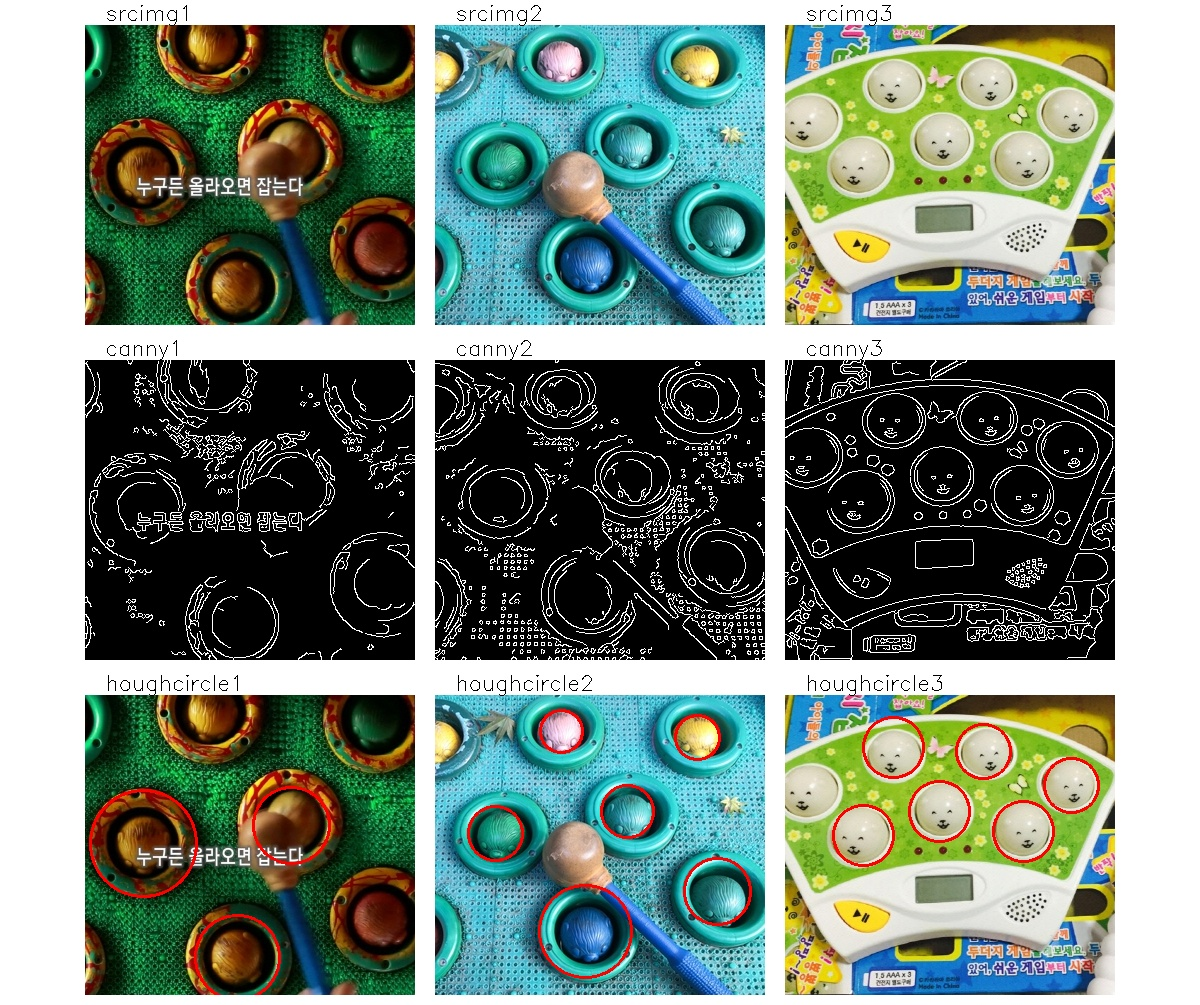
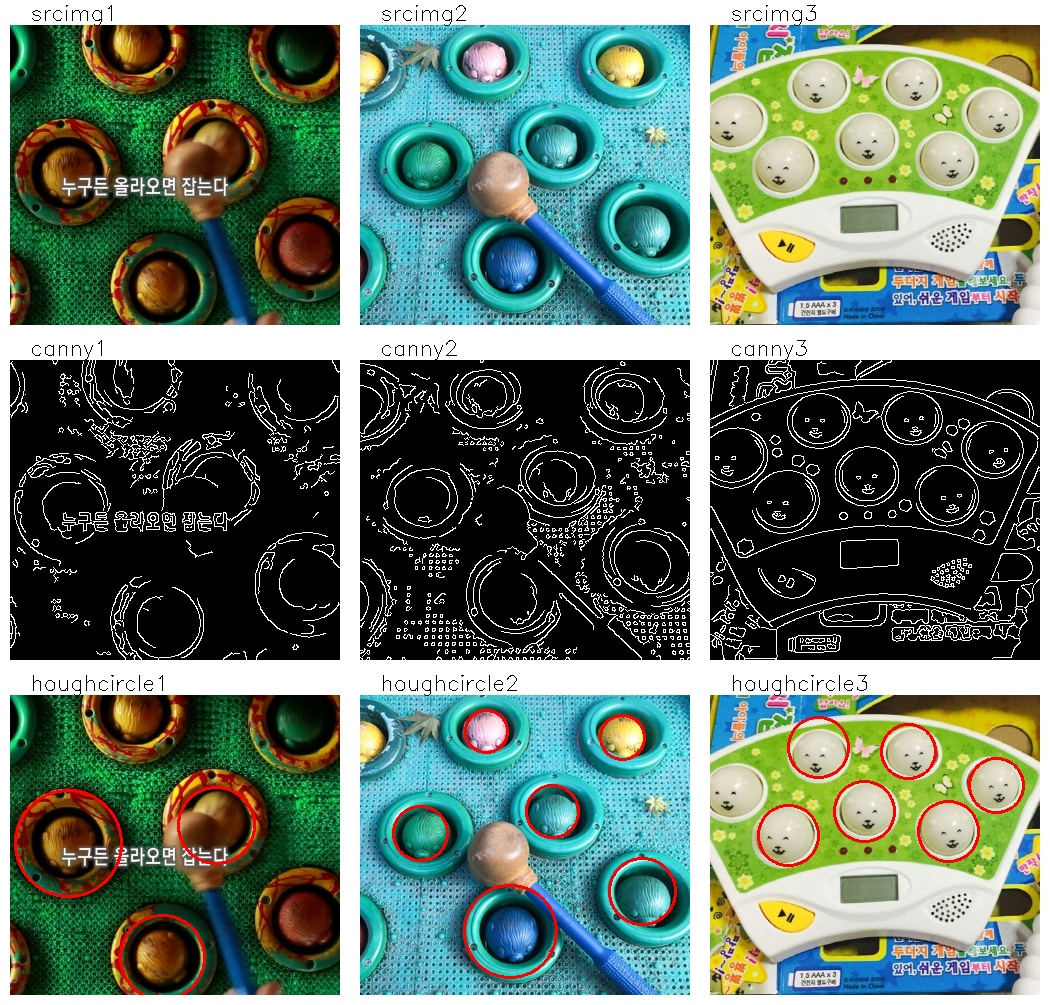
working on hough transform

diff --git a/scripts/opencv/opencv_14_hough.py b/scripts/opencv/opencv_14_hough.py
@@ -32,8 +32,8 @@ def hough_lines():
         if len(img.shape) == 2:
             images[key] = cv2.cvtColor(img, cv2.COLOR_GRAY2BGR)
 
-    result_img = si.show_imgs(images, "hough lines", 3, 1200)
-    cv2.imwrite(IMG_PATH + "/houghlines.jpg", result_img)
+    result_img = si.show_imgs(images, "hough lines", 3, 1000)
+    # cv2.imwrite(IMG_PATH + "/houghlines.jpg", result_img)
 
 
 def hough_circles():
@@ -70,10 +70,10 @@ def hough_circles():
     for key, img in images.items():
         if len(img.shape) == 2:
             images[key] = cv2.cvtColor(img, cv2.COLOR_GRAY2BGR)
-    result_img = si.show_imgs(images, "hough lines", 3, 1200)
+    result_img = si.show_imgs(images, "hough lines", 3, 1000)
     cv2.imwrite(IMG_PATH + "/houghcircles.jpg", result_img)
 
 
 if __name__ == "__main__":
-    # hough_lines()
+    hough_lines()
     hough_circles()

diff --git a/_posts/2019-05-26-segmentation.md b/_posts/2019-05-26-segmentation.md
@@ -9,33 +9,128 @@ categories: 2019-1-systprog
 
 # 1. Hough Transform
 
+허프 변환(Hough Transform)은 영상에서 직선이나 원과 같은 모양을 찾는 방법이다. 먼저 영상에서 캐니 엣지로 외곽선을 추출하고 엣지로 검출된 픽셀 좌표들을 허프 공간(Hough Space)으로 변환한다. 허프 공간은 찾고자 하는 도형의 파라미터 공간(Parameter Space)이며 이곳에서 밀도가 높은 곳의 파라미터를 찾으면 해당 도형을 픽셀 좌표계에서 찾을 수 있다. 가장 대표적인 직선 검출을 예로 들면 아래 왼쪽 그림처럼 영상에서 직선은 $(\rho, \theta)$ 두 개의 파라미터로 결정할 수 있다. 엣지로 검출된 선분 위의 한 픽셀을 지날수 있는 모든 직선의 파라미터를 허프 공간에 표시하면 오른쪽 그림과 같이 곡선이 그려진다. 선분 위의 모든 픽셀에 대해 가능한 직선들을 허프 공간으로 변환시켜 가장 허프 공간에서 밀도가 높아지는 곳, 즉 가장 여러 곡선이 겹치는 곳의 파라미터가 우리가 찾는 선분의 파라미터가 된다. 원을 찾을때도 마찬가지로 원을 $(x,y,r)$ 세 개의 파라미터로 특정할 수 있으므로 3차원 허프 공간을 만들고 엣지 위의 픽셀들을 허프 공간으로 변환하면 된다.
+
+![hough-transform1](/ian-lecture/assets/opencv-segment/hough-transform1.jpg)
+
+![hough-transform2](/ian-lecture/assets/opencv-segment/hough-transform2.png)
+
+
+
+## 1.1 Hough Line Transform
+
+OpenCV에서는 허프 직선 변환을 구현한 `cv2.HoughLines()`와 확률적인 방법으로 직선 검출의 속도를 높인 `cv2.HoughLinesP()`라는 두 개의 함수를 제공한다.
+
+> lines = **cv2.HoughLines**(image, rho, theta, threshold[, lines, srm, stm, min_theta, max_theta])
+>
+> - image: 8-bit, single channel binary source image. 주로 원본 영상에 가우시안 블러와 캐니 엣지를 순서대로 적용한 영상을 입력 영상으로 쓴다.
+> - rho: 직선과 원점과의 거리 측정 해상도, 허프 공간을 나누는 단위, 작을수록 정확히 측정할 수 있지만 입력 영상의 노이즈에 취약해진다.
+> - theta: 원점에서 직선에 내린 수선의 발의 각도 측정 해상도, 허프 공간을 나누는 단위, 작을수록 정확히 측정할 수 있지만 입력 영상의 노이즈에 취약해진다.
+> - threshold: 직선으로 판단한 최소한의 vote 개수, 작게 주면 검출 개수가 증가하지만 정확도가 감소, 높게 주면 검출 개수는 줄어들지만 확실한 직선만 검출
+> - lines: 검출 결과, 1 1N x 1 x 2 크기의 배열 $(\rho, \theta)$
+> - srn, stn: 허프 변환을 목표 해상도에 바로 적용하는 것은 많은 연산이 필요하므로 낮은 해상도에서 점점 높은 해상도로 올리면서 찾는다. 이때 단계별 거리와 각도 해상도 갱신 비율을 srn, stn 으로 지정한다.
+> - min_theta, max_theta: 검출을 위해 사용할 최소, 최대 각도
+
+> lines = **cv2.HoughLinesP**(image, rho, theta, threshold[, lines, minLineLength, maxLineGap])
+>
+> - image, rho, theta, threshold는 위와 동일
+> - lines: 검출 결과, N x 1 x 4 크기의 배열로 시작점과 끝점 좌표 표현 $(x_1, y_1, x_2, y_2)$
+> - minLineLength: 선으로 인정할 최소 길이
+> - maxLineGap: 하나의 직선이 두 개 이상의 선분으로 끊어져 있을 때 얼마나 끊어진 간격까지 연결해서 하나의 선분으로 검출할 것인지 결정
+
+두 함수 중에서 `cv2.HoughLinesP`가 속도가 빠를 뿐더러 결과도 사용자가 쓰기 쉬운 끝점 좌표로 나오고 입력 인자도 선분의 조건을 직관적으로 제한할 수 있기 때문에 많이 쓰인다. 다만 선 검출이 `cv2.HoughLinesP()`에 비해서는 적게 되므로 threshold를 상대적으로 낮게 지정해야 한다. 다음은 `cv2.HoughLinesP` 함수를 이용해 책장의 선분을 검출하는 예시다.
+
+```python
+import cv2
+import numpy as np
+import show_imgs as si
+IMG_PATH = "../sample_imgs"
+
+def hough_lines():
+    img_names = [IMG_PATH + f"/bookshelf{i+1}.jpg" for i in range(3)]
+    images = {}
+    for i, name in enumerate(img_names):
+        images[f"srcimg{i+1}"] = cv2.imread(name, cv2.IMREAD_COLOR)
+
+    canny_edges = {}
+    for key, img in images.items():
+        grayimg = cv2.cvtColor(img, cv2.COLOR_BGR2GRAY)
+        blurimg = cv2.GaussianBlur(grayimg, (3, 3), 0)
+        # blurimg = cv2.GaussianBlur(blurimg, (3, 3), 0)
+        canny_edges[key.replace("srcimg", "canny")] = cv2.Canny(blurimg, 100, 200)
+
+    hough_results = {}
+    for key, canny_img in canny_edges.items():
+        lines = cv2.HoughLi(canny_img, 1, np.pi/180, 50, None, 50, 10)
+        result = images[key.replace("canny", "srcimg")].copy()
+        for line in lines:
+            x1, y1, x2, y2 = line[0]
+            cv2.line(result, (x1,y1), (x2,y2), (0,0,255), 1)
+        hough_results[key.replace("canny", "houghline")] = result
+
+    images.update(canny_edges)
+    images.update(hough_results)
+    for key, img in images.items():
+        if len(img.shape) == 2:
+            images[key] = cv2.cvtColor(img, cv2.COLOR_GRAY2BGR)
+
+    result_img = si.show_imgs(images, "hough lines", 3, 1000)
+
+if __name__ == "__main__":
+    hough_lines()
+```
+
+
+
+![houghlines](/ian-lecture/assets/opencv-segment/houghlines.jpg)
 
 
 
 
 
+```python
+def hough_circles():
+    img_names = [IMG_PATH + f"/mole{i+1}.jpg" for i in range(3)]
+    images = {}
+    for i, name in enumerate(img_names):
+        images[f"srcimg{i+1}"] = cv2.imread(name, cv2.IMREAD_COLOR)
+
+    canny_edges = {}
+    for key, img in images.items():
+        gray = cv2.cvtColor(img, cv2.COLOR_BGR2GRAY)
+        gray = cv2.GaussianBlur(gray, (3, 3), 0)
+        gray = cv2.GaussianBlur(gray, (3, 3), 0)
+        canny_edges[key.replace("srcimg", "canny")] = cv2.Canny(gray, 100, 200)
+
+    hough_results = {}
+    for key, srcimg in images.items():
+        gray = cv2.cvtColor(srcimg, cv2.COLOR_BGR2GRAY)
+        gray = cv2.GaussianBlur(gray, (3, 3), 0)
+        gray = cv2.GaussianBlur(gray, (3, 3), 0)
+        circles = cv2.HoughCircles(gray, cv2.HOUGH_GRADIENT, 1, 30, None,
+                                   param1=200, param2=50, maxRadius=60)
+        if circles is not None:
+            circles = np.around(circles).astype(np.uint16)
+            circles = circles[0]
+            result = srcimg.copy()
+            print("circles", circles)
+            for circle in circles:
+                result = cv2.circle(result, (circle[0], circle[1]), circle[2], (0,0,255), 2)
+            hough_results[key.replace("srcimg", "houghcircle")] = result
+
+    images.update(canny_edges)
+    images.update(hough_results)
+    for key, img in images.items():
+        if len(img.shape) == 2:
+            images[key] = cv2.cvtColor(img, cv2.COLOR_GRAY2BGR)
+    result_img = si.show_imgs(images, "hough lines", 3, 1000)
+```
 
 
 
 
 
-
-
-
-
-
-
-
-
-
-
-
-
-
-
-
-
-
+![houghcircles](/ian-lecture/assets/opencv-segment/houghcircles.jpg)
 
 
 

diff --git a/_posts/2019-05-24-filters.md b/_posts/2019-05-24-filters.md
@@ -27,7 +27,7 @@ void filter(srcimg, kernel, dstimg) {
                     value += srcimg.at<uchar>(v+i, u+k) * kernel.at<uchar>(i, k);
                 }
             }
-            dstimg.at(v, u) = value;
+            dstimg.at<uchar>(v, u) = value;
         }
     }
 }
